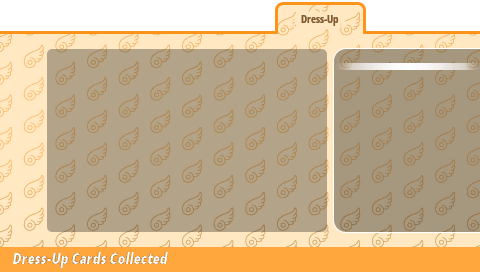
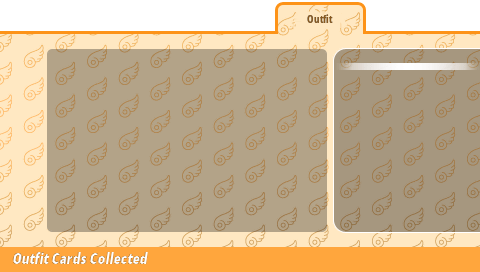
Phase 8: graphics wording unified (D9): Outfit, Gym Wear, pieces; glossary pointer to gfx tsv

Changed region(s): [[0.0312, 0.9118, 0.375, 1.0], [0.625, 0.0588, 0.7188, 0.0882]]

diff --git a/docs/decisions.md b/docs/decisions.md
@@ -16,3 +16,4 @@ All D1-D7 came from the owner's standing answers injected into the one-shot run 
 | D6 | 2026-11-22 | Specs and plans | need approval, pre-approved | Pre-approved: keep going through checkpoints, report at the end. |
 | D7 | 2026-11-22 | Existing saves / states | none provided | None; build the debug tool as usual. |
 | D8 | 2026-11-22 | Literal `~` for ～ (phase 6 review: 181 lines had it against the rule) | ban everywhere; allow for Mikako only; allow freely | Agent default under the pre-approved run (D6): Mikako only (her lines, ??? lines that are her, imitations of her). Her drawl is a character trait and 134 of her 305 lines use it; others' 43 lines were rewritten (fix008: stretched words or dropped). Linted in tools/batches.py. |
+| D9 | 2026-11-22 | Graphics wording (wave-1 agents differed) | per agent; one term each | Agent default (D6): きせかえ = "Outfit" (cards, gallery tab, Communication button "Outfits"); 体操着 = "Gym Wear" ("Gym Clothes" doesn't fit the 51 px outfit label); 持ちコマ = "pieces" (never "hand"), special-move effect lines identical in hexmenu/hexstart/hexcard; Hexcite record line keeps W/L/D (standard sports notation, digits are game-drawn); card counter "card(s) obtained!" (count is game-drawn, no plural suffix glued on). |

diff --git a/glossary.md b/glossary.md
@@ -12,6 +12,9 @@ must appear in the English; Avoid spellings fail.
   Sound effects and interjections: romanised or English onomatopoeia as fits ("Gwah!", "Kyaa!", "Heh heh heh..."),
   never left as kana.
 - Abbreviations: full names and terms everywhere, prefer engine changes over shortening.
+- Graphics text (D9): card names, outfit names, special moves and menu labels drawn as images are listed in
+  `gfx/<group>.tsv` (cardname, cardnameget, hexstart, hexcard...), not as table rows here (the lint would demand them
+  in dialogue). きせかえ = Outfit, 体操着 = Gym Wear, 持ちコマ = pieces.
 
 ## Style rules
 - Punctuation map: 「」 -> "...", 『』 -> '...' (titles) or "...", ・・・ / …… -> ..., ！？ -> ?!, ～ (stretched vowel) ->
